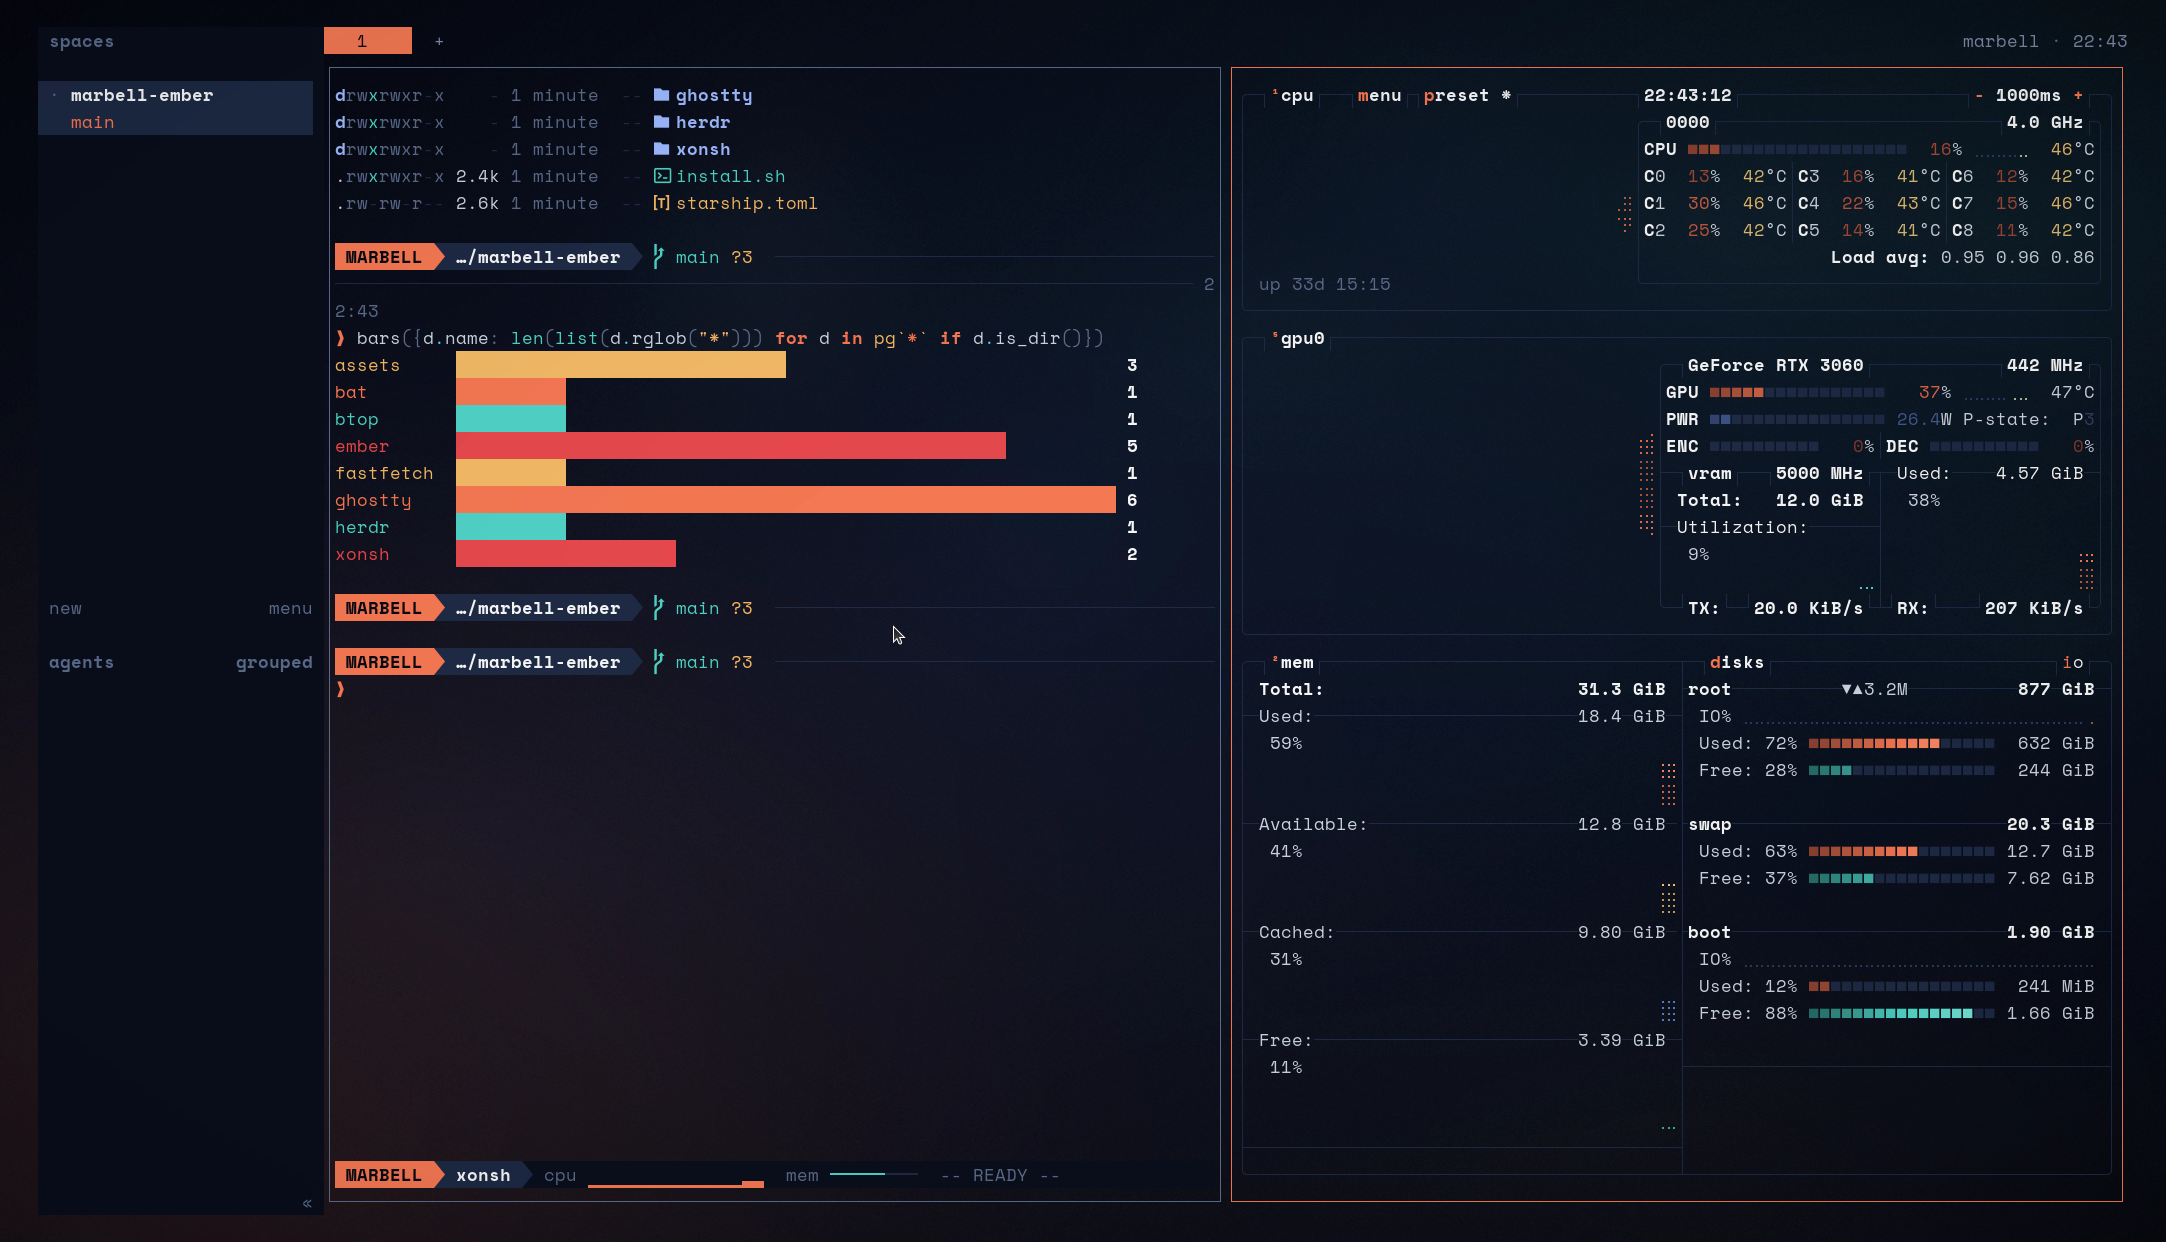
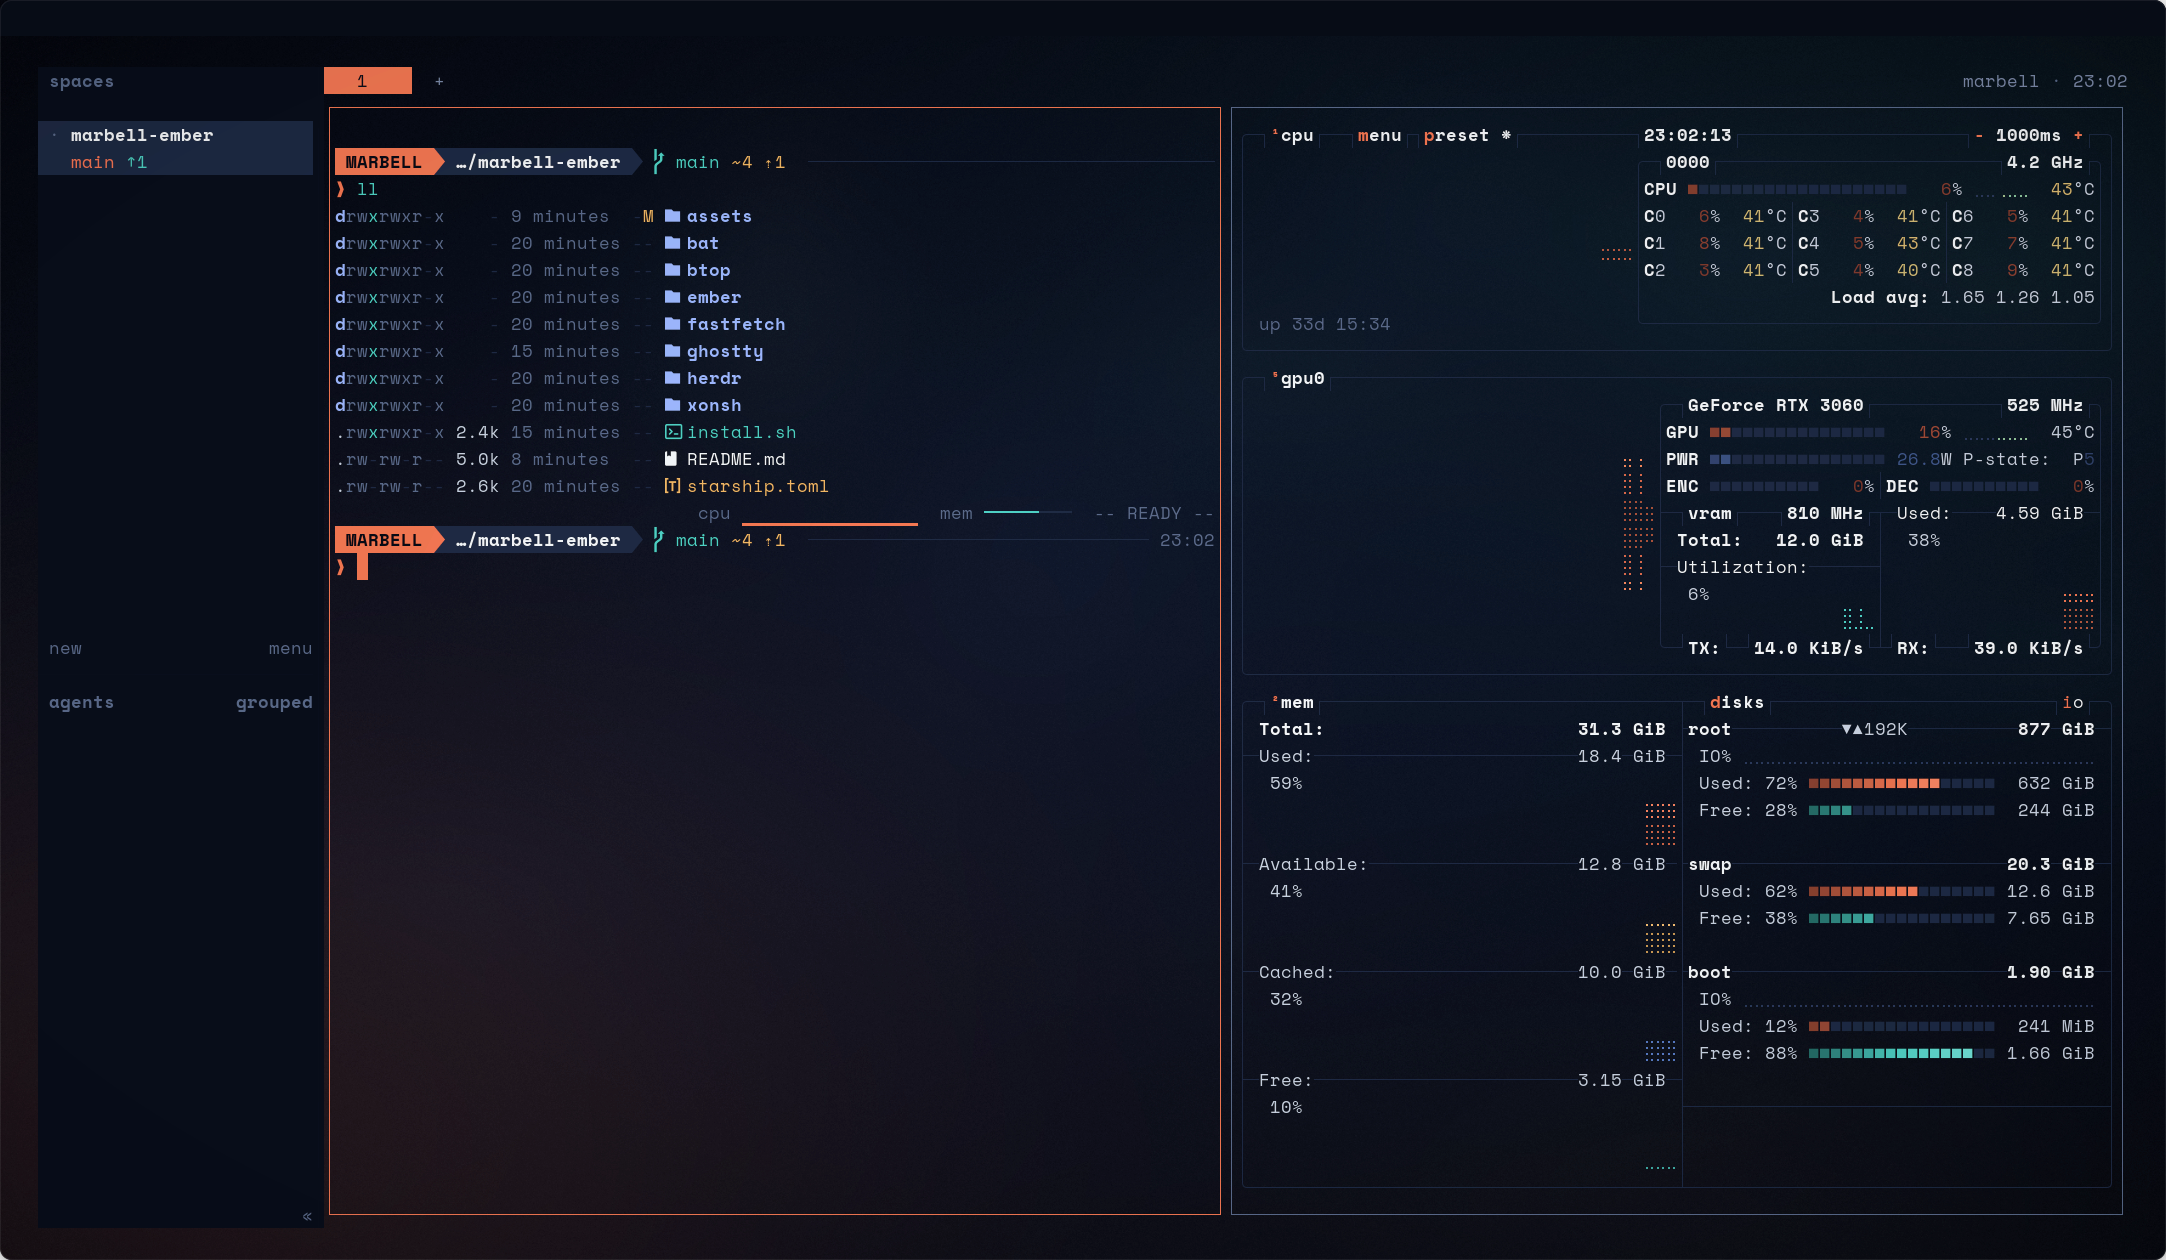
Re-record clips and screenshots with the readout at the top right of the prompt

diff --git a/README.md b/README.md
@@ -12,13 +12,13 @@ It started as a console drawn for a film and was rebuilt as a real terminal: nav
 
 ![The cursor leaving a coral thread as it jumps along the line, slowed down](assets/cursor.gif)
 
-**Python at the prompt.** The shell is xonsh, so a line is either a command or Python, and the two mix: `$(...)` captures a command's output into a Python value, `@(...)` drops a Python value into a command, and `` pg`*.glsl` `` is a glob that returns `Path` objects. The status line at the bottom flips between `-- SHELL --` and `-- PYTHON --` as you type.
+**Python at the prompt.** The shell is xonsh, so a line is either a command or Python, and the two mix: `$(...)` captures a command's output into a Python value, `@(...)` drops a Python value into a command, and `` pg`*.glsl` `` is a glob that returns `Path` objects. A readout at the top right of the live prompt flips between `-- SHELL --` and `-- PYTHON --` as you type.
 
 ![Python and shell commands mixed at the prompt: arithmetic, a glob into a variable, command capture, a bar chart](assets/python.gif)
 
-`ember.py` adds charts that draw on the character grid: `bars`, `spark`, `gauge`, `panel`, `table`. The status line also carries a CPU sparkline and a memory meter.
+`ember.py` adds charts that draw on the character grid: `bars`, `spark`, `gauge`, `panel`, `table`. The same readout carries a CPU sparkline and a memory meter, and clears itself once a line is run.
 
-![Prompt, bar chart, sparkline and status line](assets/prompt.png)
+![Prompt, bar chart, sparkline and the live readout](assets/prompt.png)
 
 **Workspaces.** herdr is themed to match: coral active tab and focus border, panes open xonsh.
 
@@ -82,7 +82,7 @@ Ghostty starts xonsh directly, so nothing from `~/.bashrc` is inherited. Put you
 
 ```
 ghostty/   config.ghostty, ember.css (hover-only title bar), themes/Marbell Ember, shaders/
-ember/     ember.py (charts + status line), plate.png, make_plate.py, logo.txt, delta.gitconfig
+ember/     ember.py (charts + live readout), plate.png, make_plate.py, logo.txt, delta.gitconfig
 xonsh/     rc.xsh, local.xsh.example
 starship.toml
 herdr/     config.toml
